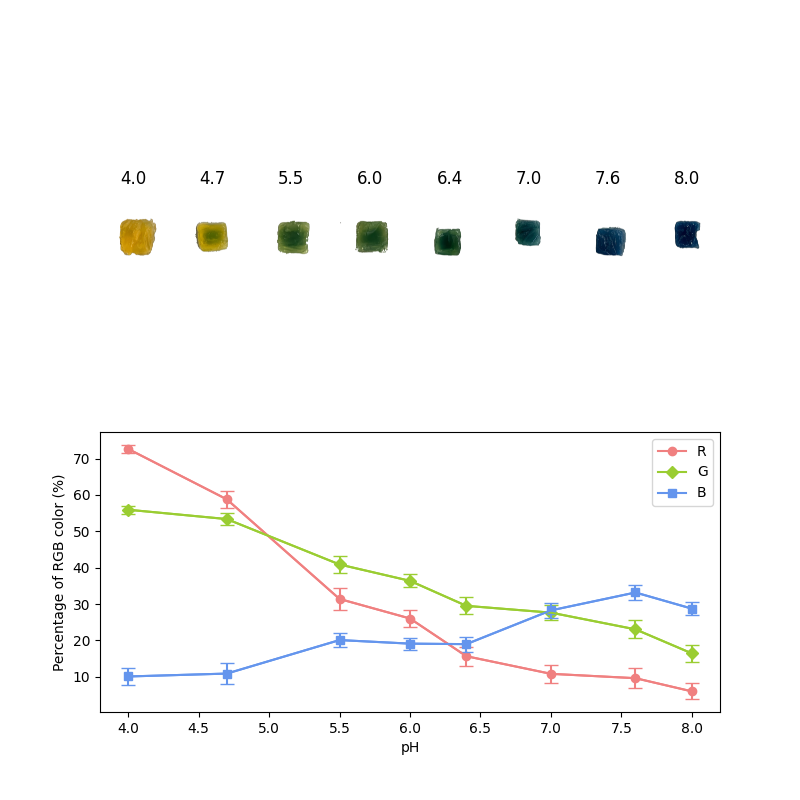
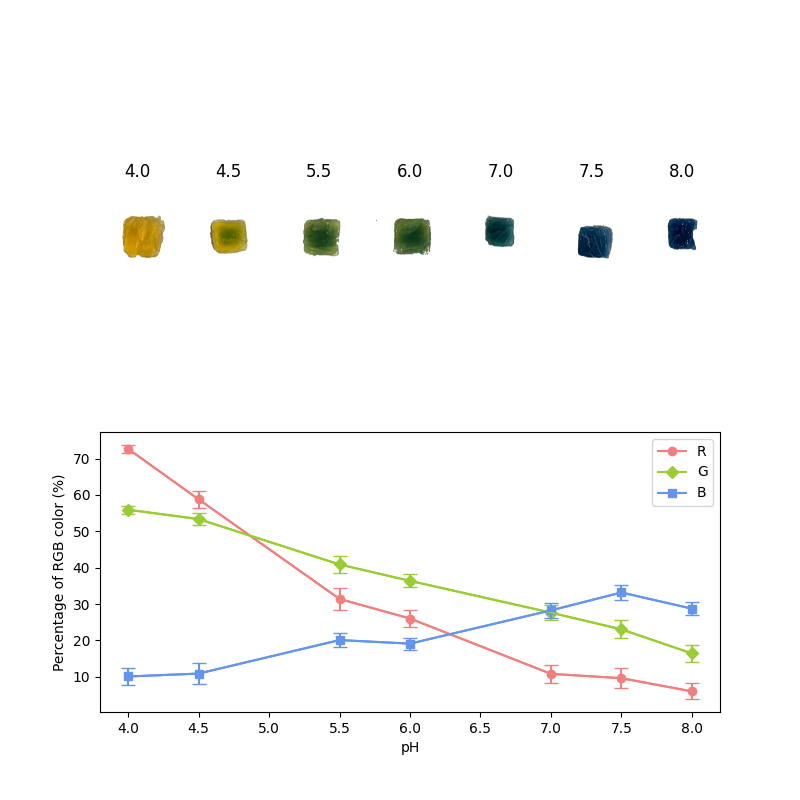
1

diff --git a/ph_measuring.py b/ph_measuring.py
@@ -106,10 +106,10 @@ def predict_pH(imgs):
     rgb.append(average_rgb(processed_images[i]))
   # Show values of R
   red = np.array([i[0] for i in rgb])
-  p1 = axes[1, 0].plot(range(0, number), red, color="red", marker=".", linestyle=":")
+  p1 = axes[1, 0].plot(range(0, number), red, color="lightcoral", marker=".", linestyle=":")
   # Show values of G
   green = np.array([i[1] for i in rgb])
-  p2 = axes[1, 0].plot(range(0, number), green, color="green", marker="x", linestyle=":")
+  p2 = axes[1, 0].plot(range(0, number), green, color="yellowgreen", marker="x", linestyle=":")
   # Show values of B
   blue = np.array([i[2] for i in rgb])
   p3 = axes[1, 0].plot(range(0, number), blue, color="blue", marker="+", linestyle=":")
@@ -121,7 +121,7 @@ def predict_pH(imgs):
   axe_ph = axes[1, 0].twinx()
   axe_ph.set_ylabel('pH')
   pH = [fitting_function(i) for i in rgb]
-  axe_ph.plot(range(0, number), pH, color="purple", marker="*")
+  axe_ph.plot(range(0, number), pH, color="purple", marker="o")
   for a, b in zip(range(0, number), pH): 
     axe_ph.text(a, b + 0.25, "pH" + str("{:.2f}".format(b)), color="purple")
   # Add legends
